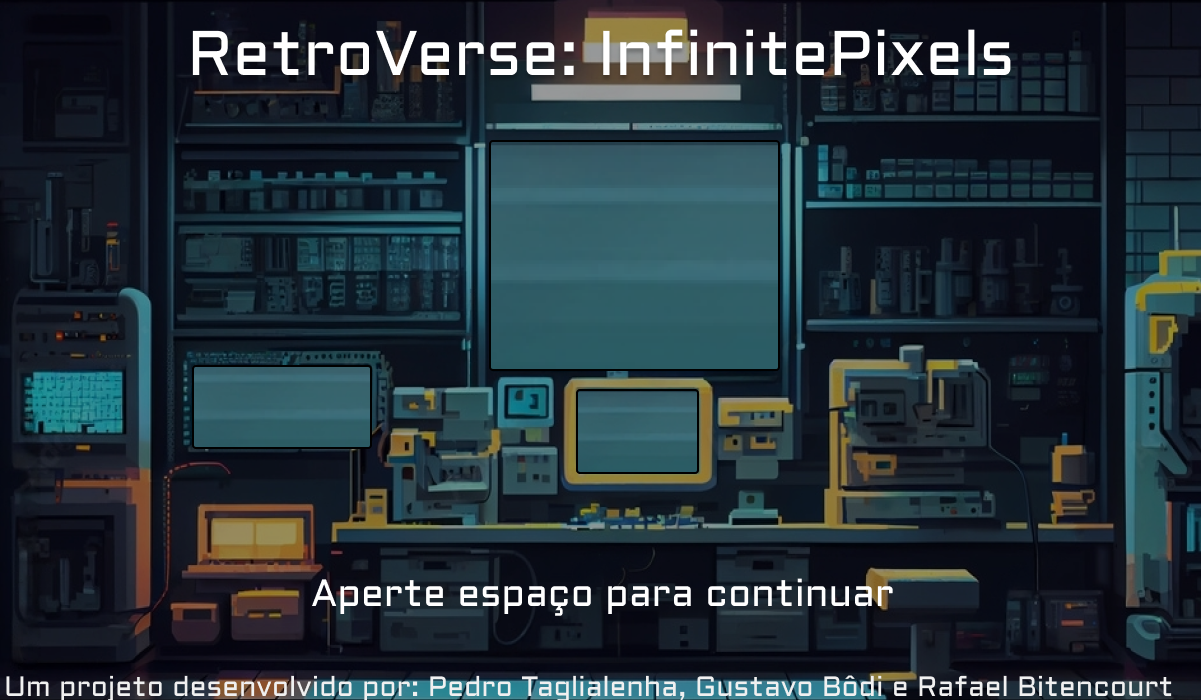
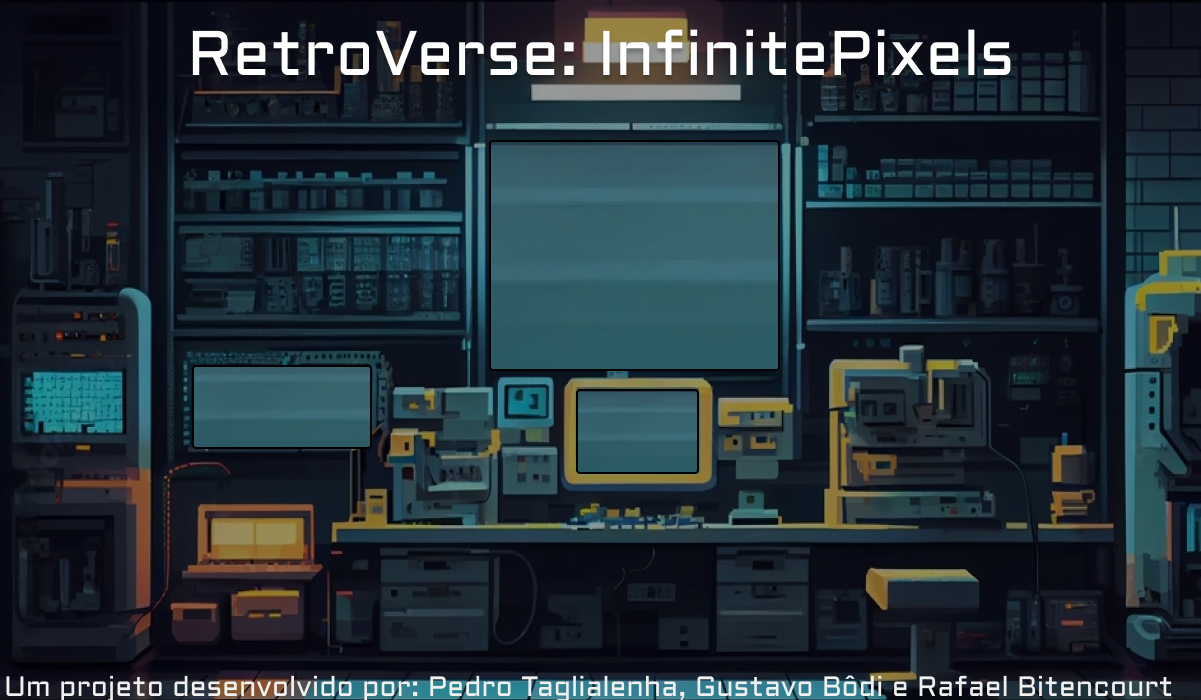
Adicionado componentes animados ao menu, criado classe que cuida da animacao

Changed region(s): [[0.2465, 0.81, 0.7394, 0.87]]

diff --git a/versao_final/menu.py b/versao_final/menu.py
@@ -1,23 +1,39 @@
-import pygame
-from pygame.locals import *
 from highscore import Highscore
+from gifanimation import Gif
+import pygame
 
 
 class Menu:
     def __init__(self, screen):
         self.screen = screen
+        self.clock = pygame.time.Clock()  # Create a clock object
         self.background = pygame.image.load('assets/assets_menu/tela_de_fundo_menu.png')
         self.highscore_icon = pygame.image.load('assets/assets_menu/highscore.png')
         self.start_button = pygame.image.load('assets/assets_menu/botao_jogar.png')
         self.quit_button = pygame.image.load('assets/assets_menu/botao_tutorial.png')
-        self.selection_icon1 = pygame.image.load('assets/assets_menu/selecionador.png')
-        self.selection_icon2 = pygame.image.load('assets/assets_menu/selecionador2.png')
+
+        # Load the frames of the gifs into lists
+        selection_icon1_frames = [pygame.image.load(f'assets/assets_menu/selecionador_frame{i}.png') for i in range(2)]
+        selection_icon2_frames = [pygame.image.load(f'assets/assets_menu/selecionador2_frame{i}.png') for i in range(2)]
+        press_space_frames = [pygame.image.load(f'assets/assets_menu/pressionar_espaco_frame{i}.png') for i in range(13)]
+
+        # Create Gif objects
+        selection_icon1_durations = [500] * 2
+        selection_icon2_durations = [500] * 2
+        press_space_durations = [1200 if i in [0, 7] else 100 for i in range(13)]
+
+        # Create Gif objects
+        self.selection_icon1 = Gif(selection_icon1_frames, selection_icon1_durations)
+        self.selection_icon2 = Gif(selection_icon2_frames, selection_icon2_durations)
+        self.press_space = Gif(press_space_frames, press_space_durations)
+
         self.buttons = [self.start_button, self.quit_button]
         self.current_selection = 0
         self.button_positions = [(510, 225), (595, 418)]
-        self.selection_positions = [(500, 240), (582, 422)]
+        self.selection_positions = [(507, 240), (582, 422)]
         self.highscore = Highscore()
         self.font = pygame.font.SysFont('bahnschrift', 26)
+        self.press_space_center_position = (600, 600)
 
     def draw(self):
         self.screen.blit(self.background, (0, 0))
@@ -28,14 +44,24 @@ class Menu:
             self.screen.blit(button, self.button_positions[i])
             if i == self.current_selection:
                 if self.current_selection == 0:
-                    self.screen.blit(self.selection_icon1, self.selection_positions[i])
+                    self.screen.blit(self.selection_icon1.get_current_frame(), self.selection_positions[i])
                 elif self.current_selection == 1:
-                    self.screen.blit(self.selection_icon2, self.selection_positions[i])
+                    self.screen.blit(self.selection_icon2.get_current_frame(), self.selection_positions[i])
+        press_space_image = self.press_space.get_current_frame()
+        press_space_position = (self.press_space_center_position[0] - press_space_image.get_width() / 2,
+                                self.press_space_center_position[1] - press_space_image.get_height() / 2)
+        self.screen.blit(press_space_image, press_space_position)
         pygame.display.flip()
 
     def main(self):
         running = True
         while running:
+            dt = self.clock.tick()  # Seta os ticks para 60 e retorna o tempo desde o ultimo tick
+
+            self.selection_icon1.update(dt)
+            self.selection_icon2.update(dt)
+            self.press_space.update(dt)
+
             for event in pygame.event.get():
                 if event.type == pygame.QUIT:
                     pygame.quit()
@@ -51,4 +77,5 @@ class Menu:
                         elif self.current_selection == 1:
                             pygame.quit()
                             return
+
             self.draw()

diff --git a/versao_final/gifanimation.py b/versao_final/gifanimation.py
@@ -1,0 +1,15 @@
+class Gif:
+    def __init__(self, frames, frame_durations):
+        self.frames = frames
+        self.frame_durations = frame_durations
+        self.current_frame = 0
+        self.ticks_since_last_frame = 0
+
+    def update(self, dt):
+        self.ticks_since_last_frame += dt
+        if self.ticks_since_last_frame > self.frame_durations[self.current_frame]:
+            self.ticks_since_last_frame -= self.frame_durations[self.current_frame]
+            self.current_frame = (self.current_frame + 1) % len(self.frames)
+
+    def get_current_frame(self):
+        return self.frames[self.current_frame]
